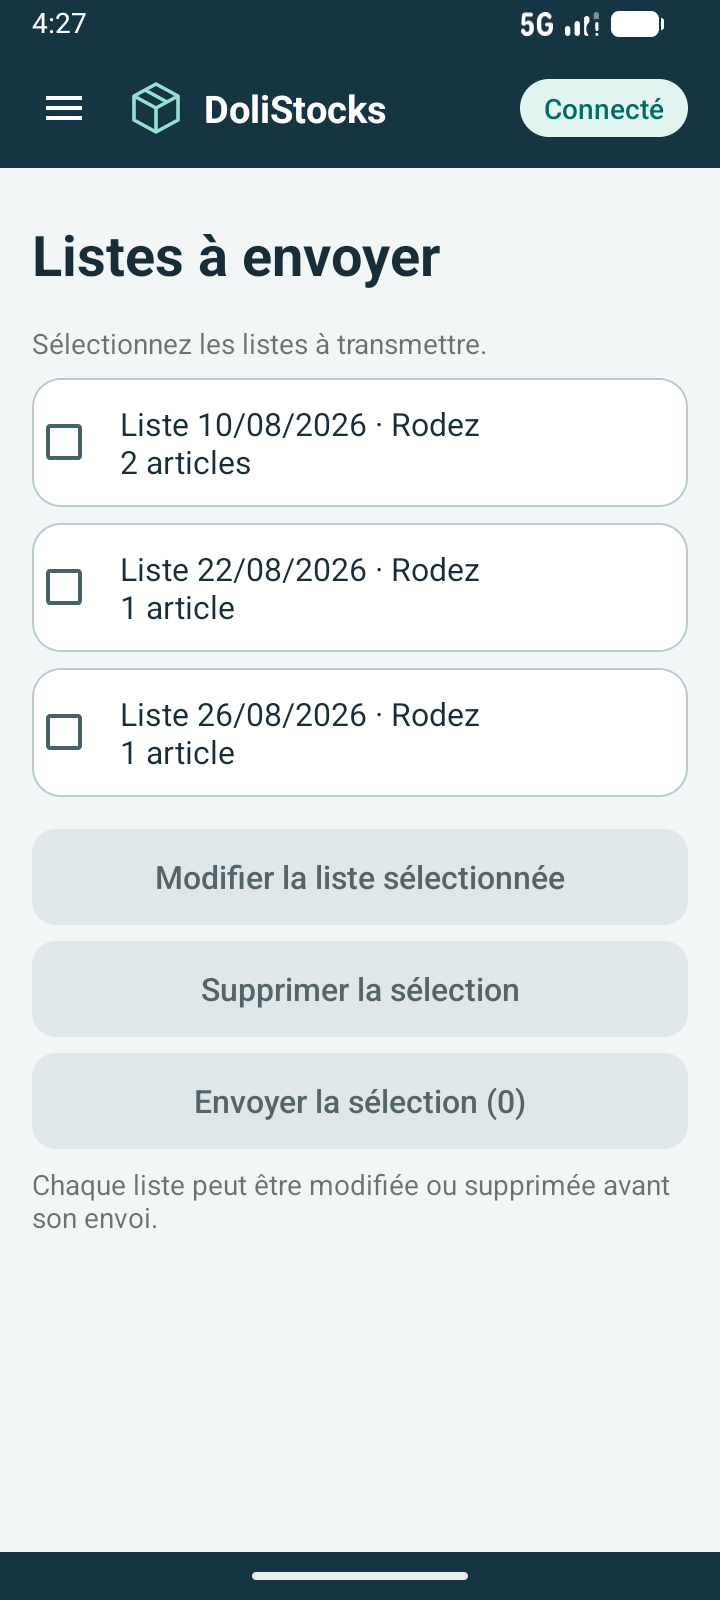
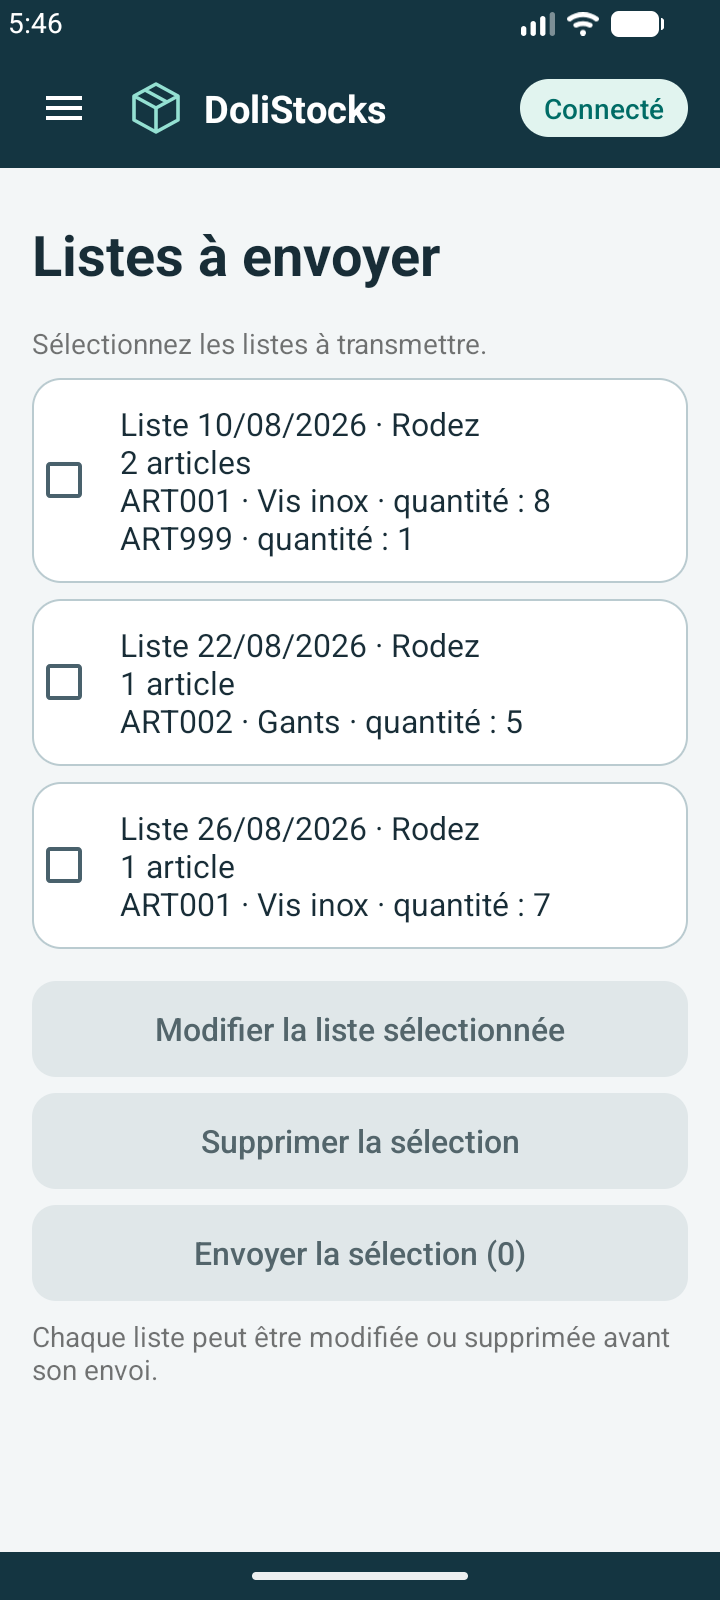
feat(listes): afficher les articles et quantités enregistrés

diff --git a/app/src/main/java/fr/dolistocks/app/ui/workflow/PendingFragment.java b/app/src/main/java/fr/dolistocks/app/ui/workflow/PendingFragment.java
@@ -12,6 +12,7 @@ import android.widget.TextView;
 import androidx.annotation.NonNull;
 import androidx.annotation.Nullable;
 import fr.dolistocks.app.R;
+import fr.dolistocks.app.data.demo.DemoStock;
 import fr.dolistocks.app.data.demo.DemoStock.StockList;
 
 public final class PendingFragment extends WorkflowFragment {
@@ -95,8 +96,7 @@ public final class PendingFragment extends WorkflowFragment {
         }
         for (StockList list : session.queue) {
             CheckBox check = (CheckBox) getLayoutInflater().inflate(R.layout.row_select_list, rows, false);
-            check.setText(list.heading() + "\n" + getResources().getQuantityString(
-                    R.plurals.article_count, list.lines.size(), list.lines.size()));
+            check.setText(listSummary(list));
             check.setChecked(session.selected.contains(list));
             check.setOnCheckedChangeListener((button, selected) -> {
                 if (selected) session.selected.add(list);
@@ -106,6 +106,19 @@ public final class PendingFragment extends WorkflowFragment {
             rows.addView(check);
         }
         updateActions();
+    }
+
+    private String listSummary(StockList list) {
+        StringBuilder summary = new StringBuilder(list.heading()).append('\n')
+                .append(getResources().getQuantityString(R.plurals.article_count,
+                        list.lines.size(), list.lines.size()));
+        for (Map.Entry<String, Integer> line : list.lines.entrySet()) {
+            String reference = line.getKey();
+            String designation = DemoStock.CATALOG.get(reference);
+            String article = designation == null ? reference : reference + " · " + designation;
+            summary.append('\n').append(getString(R.string.line_format, article, line.getValue()));
+        }
+        return summary.toString();
     }
 
     private void updateActions() {

diff --git a/README.md b/README.md
@@ -23,6 +23,8 @@
 
 ## Interface responsive
 
+- Après « Enregistrer sur l’appareil », la file affiche sous chaque liste ses références et leurs quantités. La désignation accompagne les références connues, y compris lors de la consultation hors ligne.
+
 - Dans « Listes », cocher une seule liste puis « Modifier la liste sélectionnée » pour retrouver son entrepôt, son libellé, son mode et ses articles. « Enregistrer les modifications » revient à la file. Pour un envoi ou une suppression, la fenêtre de confirmation récapitule toute la sélection et permet d’annuler.
 
 - Pendant la saisie connectée, la référence et la quantité actualisent un aperçu du stock prévu selon le mode Ajout ou Remplacement. Hors ligne, la référence reste saisissable sans estimation de stock distant.
